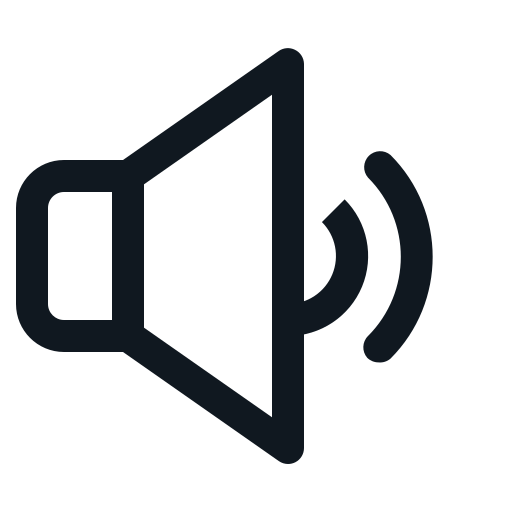
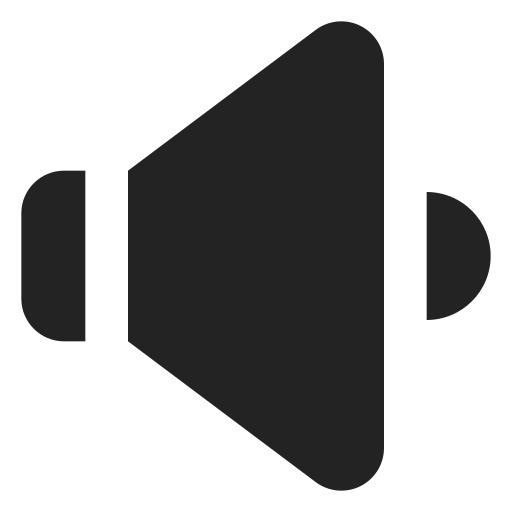
stop and continue fixed, sound hertz changer added

diff --git a/MoviePlayer/src/ui/MainappControl.java b/MoviePlayer/src/ui/MainappControl.java
@@ -4,6 +4,8 @@ import java.io.File;
 import java.net.MalformedURLException;
 import java.net.URL;
 import java.util.ResourceBundle;
+import java.util.Timer;
+import java.util.TimerTask;
 
 import businessLayer.MediaplayerFX;
 import businessLayer.MediaplayerInterface;
@@ -46,30 +48,67 @@ public class MainappControl implements Initializable{
 
 	@FXML
 	private Slider sldSound;
-	ProgramManagement management = new ProgramManagement();
+	ProgramManagement management = new ProgramManagement() {
+		public void setTime(int time) {
+			super.setTime(time);
+			sldTime.setValue(time);
+		};
+	};
 	
 	@Override
 	public void initialize(URL arg0, ResourceBundle arg1) {
-		// TODO Auto-generated method stub
+		sldSound.setMax(100);
 		
+	}
+	public void setHertzwithSlider() {
+		int value = (int) sldSound.getValue();
+		management.setHertz(value);
+		management.SetMute(false);
+		changeSoundButtonwithHertz();
+	}
+	public void setMuteW() {
+		management.SetMute();
+		Boolean isMute = management.getMute();
+		if(isMute) putImage(btnSound, "soundlevel0");
+		else {
+			changeSoundButtonwithHertz();
+		}
 	}
 	public void playSong() {
 		management.continueSong();
-		if(management.getMediaplayer().isStop()) putImage(btnPlay, "stop");
+		Boolean isStop = management.getMediaplayer().isStop();
+		if(isStop) putImage(btnPlay, "stop");
 		else putImage(btnPlay, "play");
 	}
 	public void setMedia() {
 		management.setMedia(mvPlayer);
+		setOpenFile();
+	}
+	//this method change the 
+	private void changeSoundButtonwithHertz() {
+		int value = (int) sldSound.getValue();
+		String soundlvIcon = management.getSoundLVName(value);
+		putImage(btnSound, soundlvIcon);
 	}
 	private void putImage(Labeled sceneObject, String imagename) {
 		ImageView btnimg = (ImageView) sceneObject.getGraphic();
 		Image image = new Image(LocationFinder.filetoURL(LocationFinder.IMGfinder(imagename)).toString());
 		btnimg.setImage(image);
 	}
+	private void setOpenFile() {
+		sldSound.setValue(50);
+		setHertzwithSlider();
+		sldTime.setValue(0);
+		double value = mvPlayer.getMediaPlayer().getMedia().getDuration().toSeconds();
+		sldTime.setMax(value);
+	}
 
 }
 class ProgramManagement{
 	private MediaplayerInterface mediaplayer = new MediaplayerFX();
+	private Timer musicTimer;
+	private int time;
+	public static int SOUNDLV0 = 0, SOUNDLV1 = 30, SOUNDLV2 = 70;
 	public void continueSong() {
 		mediaplayer.stop();
 	}
@@ -78,8 +117,52 @@ class ProgramManagement{
 		if(file == null) return;
 		mediaplayer.play(LocationFinder.filetoURL(file).toString());
 		mediaview.setMediaPlayer((MediaPlayer)mediaplayer.getMedia());
+		setTimer();
+
+	}
+	public void setHertz(int hertz) {
+		mediaplayer.setSound(hertz);
+	}
+	public void SetMute(Boolean isMute) {
+		if(mediaplayer.getMute() != isMute) mediaplayer.muteSound();
+	}
+	public void SetMute() {
+		mediaplayer.muteSound();
+	}
+	public String getSoundLVName(int hertz) {
+		if(hertz == 0) return "soundlevel0";
+	    else if(hertz < SOUNDLV1) return "soundlevel1";
+		else if(SOUNDLV1<hertz && hertz<SOUNDLV2) return "soundlevel2";
+		else if(hertz>SOUNDLV2) return "soundlevel3";
+		else return "soundlevel0";
+	}
+	public Boolean getMute() {
+		return mediaplayer.getMute();
 	}
 	public MediaplayerInterface getMediaplayer() {
 		return mediaplayer;
 	}
+	public int getTime() {
+		return time;
+	}
+	public void setTime(int time) {
+		this.time = time;
+	}
+	private void setTimer() {
+		time = 0;
+		musicTimer = new Timer();
+		TimerTask task = new TimerTask() {
+			
+			@Override
+			public void run() {
+				// TODO Auto-generated method stub
+				setTime(time+1);
+			}
+		};
+		getMusicTimer().scheduleAtFixedRate(task, 0, 1000);
+	}
+	public Timer getMusicTimer() {
+		return musicTimer;
+	}
+	
 }

diff --git a/MoviePlayer/src/businessLayer/fileLocationManagement/PathShowerPC.java b/MoviePlayer/src/businessLayer/fileLocationManagement/PathShowerPC.java
@@ -12,10 +12,12 @@ public class PathShowerPC{
         FileChooser chooser = new FileChooser();
         String newExtensions[] = extension.getExtensions();
         chooser.setTitle("select a file!");
-        for (int i = 0; i < extension.getExtensions().length; i++) {
-        	newExtensions[i] = "*" + "." + newExtensions[i];
-        }
-        ExtensionFilter filter = new ExtensionFilter(extension.getExplanation(), extension.getExtensions());
+    	if(newExtensions[0].charAt(0) != '*') {
+            for (int i = 0; i < extension.getExtensions().length; i++) {
+            	newExtensions[i] = "*" + "." + newExtensions[i];
+            }
+    	}
+        ExtensionFilter filter = new ExtensionFilter(extension.getExplanation(), newExtensions);
         chooser.getExtensionFilters().add(filter);
 
         File selectedDirectory = chooser.showOpenDialog(new Stage());   

diff --git a/MoviePlayer/src/businessLayer/MediaplayerFX.java b/MoviePlayer/src/businessLayer/MediaplayerFX.java
@@ -7,6 +7,9 @@ import javafx.scene.media.MediaPlayer.Status;
 public class MediaplayerFX implements MediaplayerInterface{
 	private Media media = null;
 	private MediaPlayer mediaplayer = null;
+	public static double MIN_VALUE = 0, MAX_VALUE = 1.0;
+	public MediaplayerFX() {
+	}
 	@Override
 	public void play(String songLocal) {
 		// TODO Auto-generated method stub
@@ -54,8 +57,14 @@ public class MediaplayerFX implements MediaplayerInterface{
 		// TODO Auto-generated method stub
 		if(mediaplayer == null) return true;
 		MediaPlayer.Status status =  mediaplayer.getStatus();
-		if(MediaPlayer.Status.STOPPED == status) return true;
+		if(MediaPlayer.Status.PAUSED == status) return true;
 		else return false;
+	}
+
+	@Override
+	public Boolean getMute() {
+		return mediaplayer.isMute();
+		
 	}
 
 

diff --git a/MoviePlayer/src/businessLayer/MediaplayerInterface.java b/MoviePlayer/src/businessLayer/MediaplayerInterface.java
@@ -7,5 +7,6 @@ public interface MediaplayerInterface {
 	public void close();
 	public void setSound(int soundlevel);
 	public void muteSound();
+	public Boolean getMute();
 	public Object getMedia();
 }
